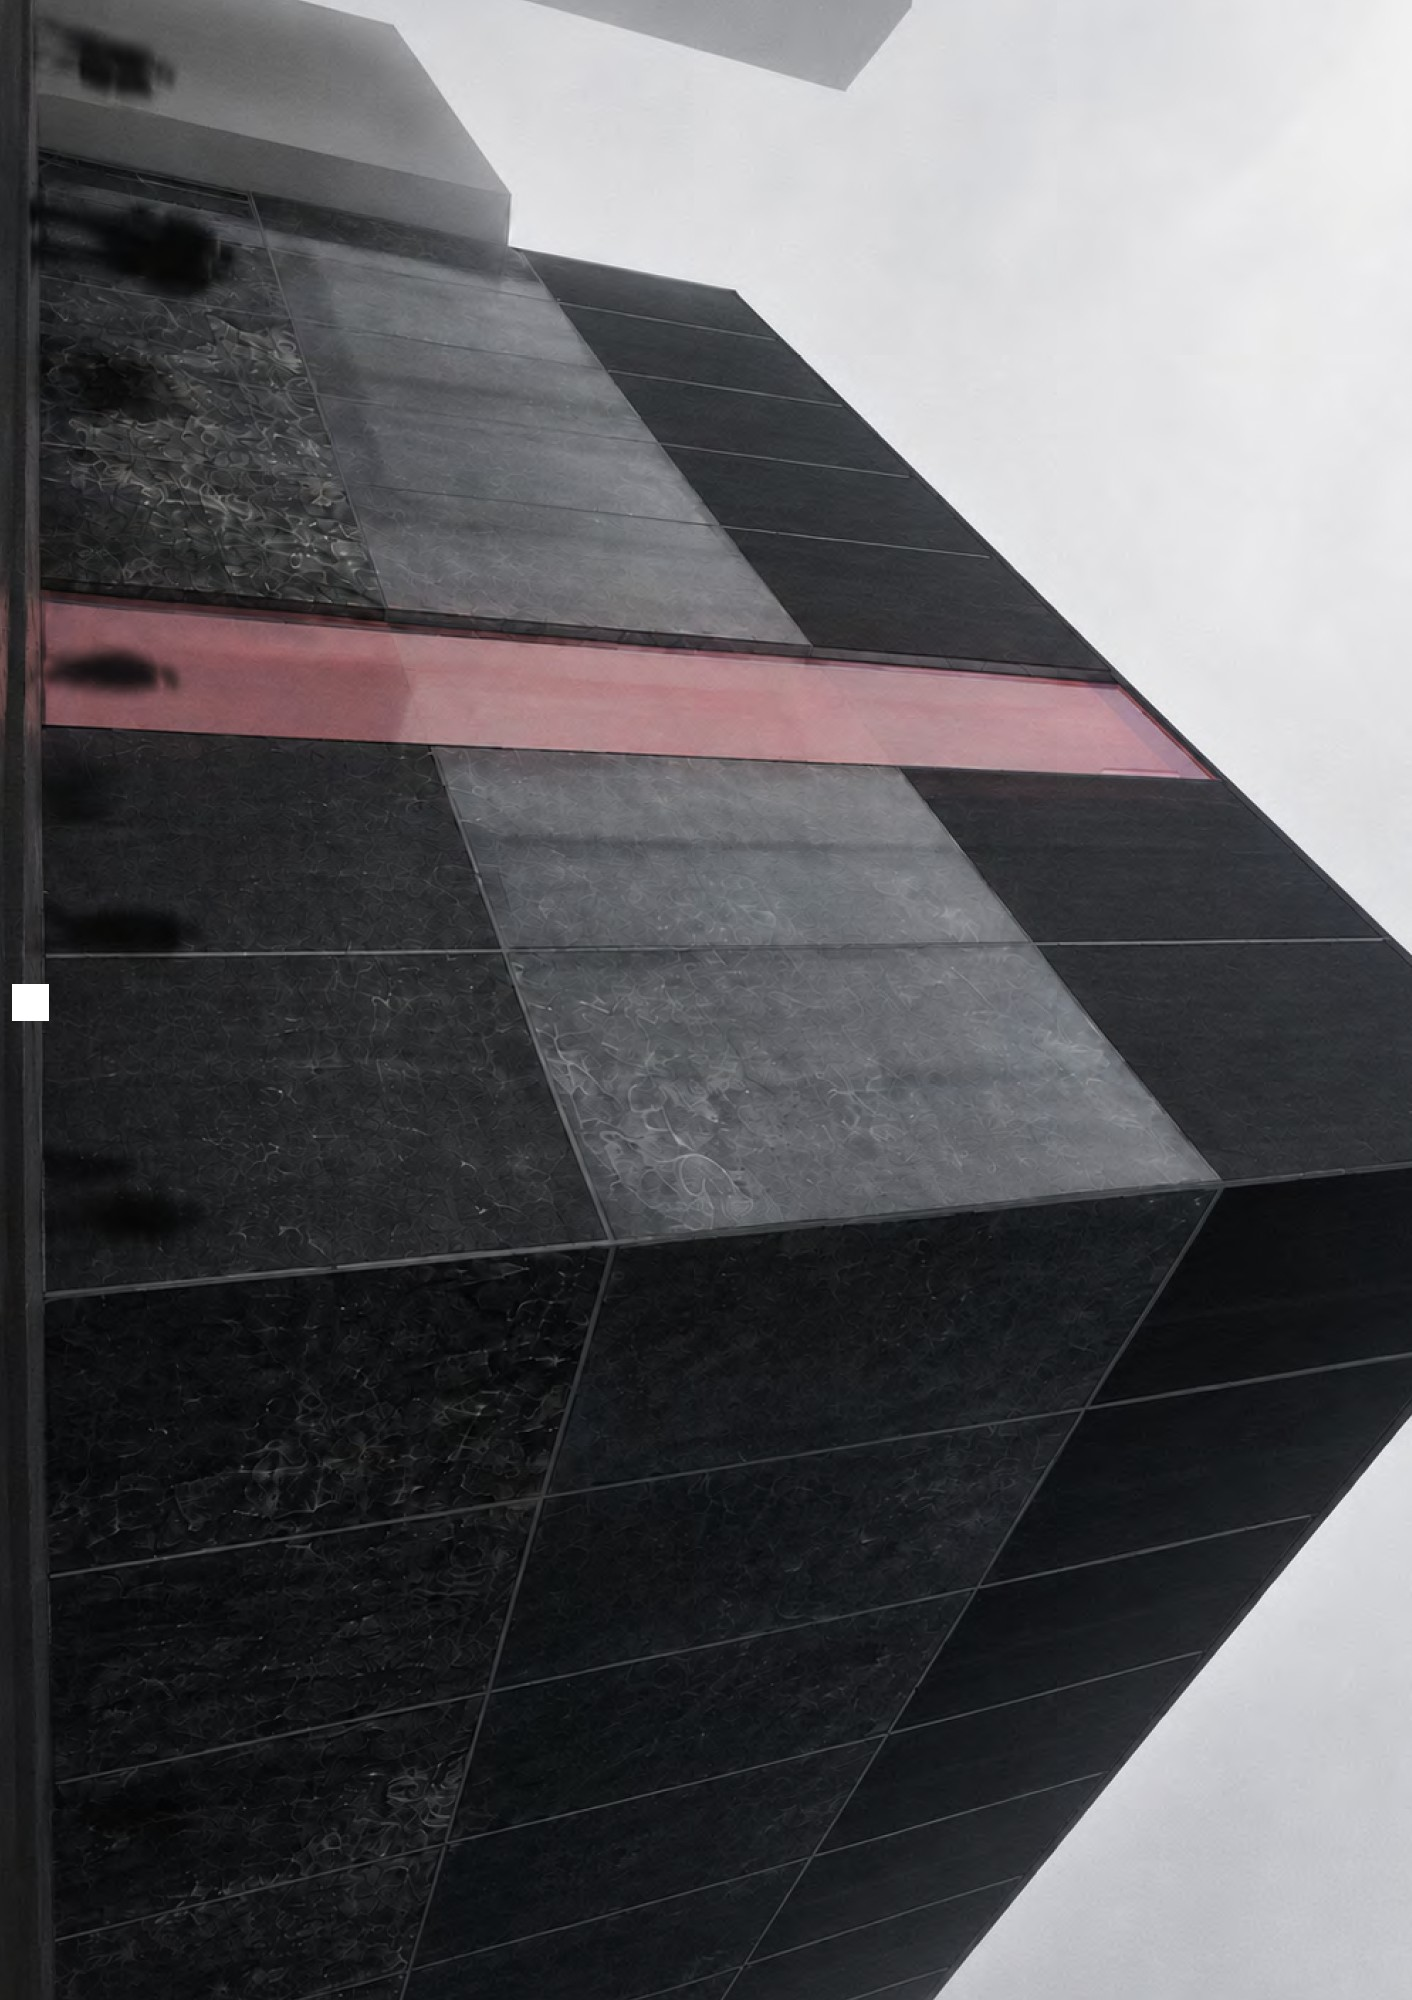
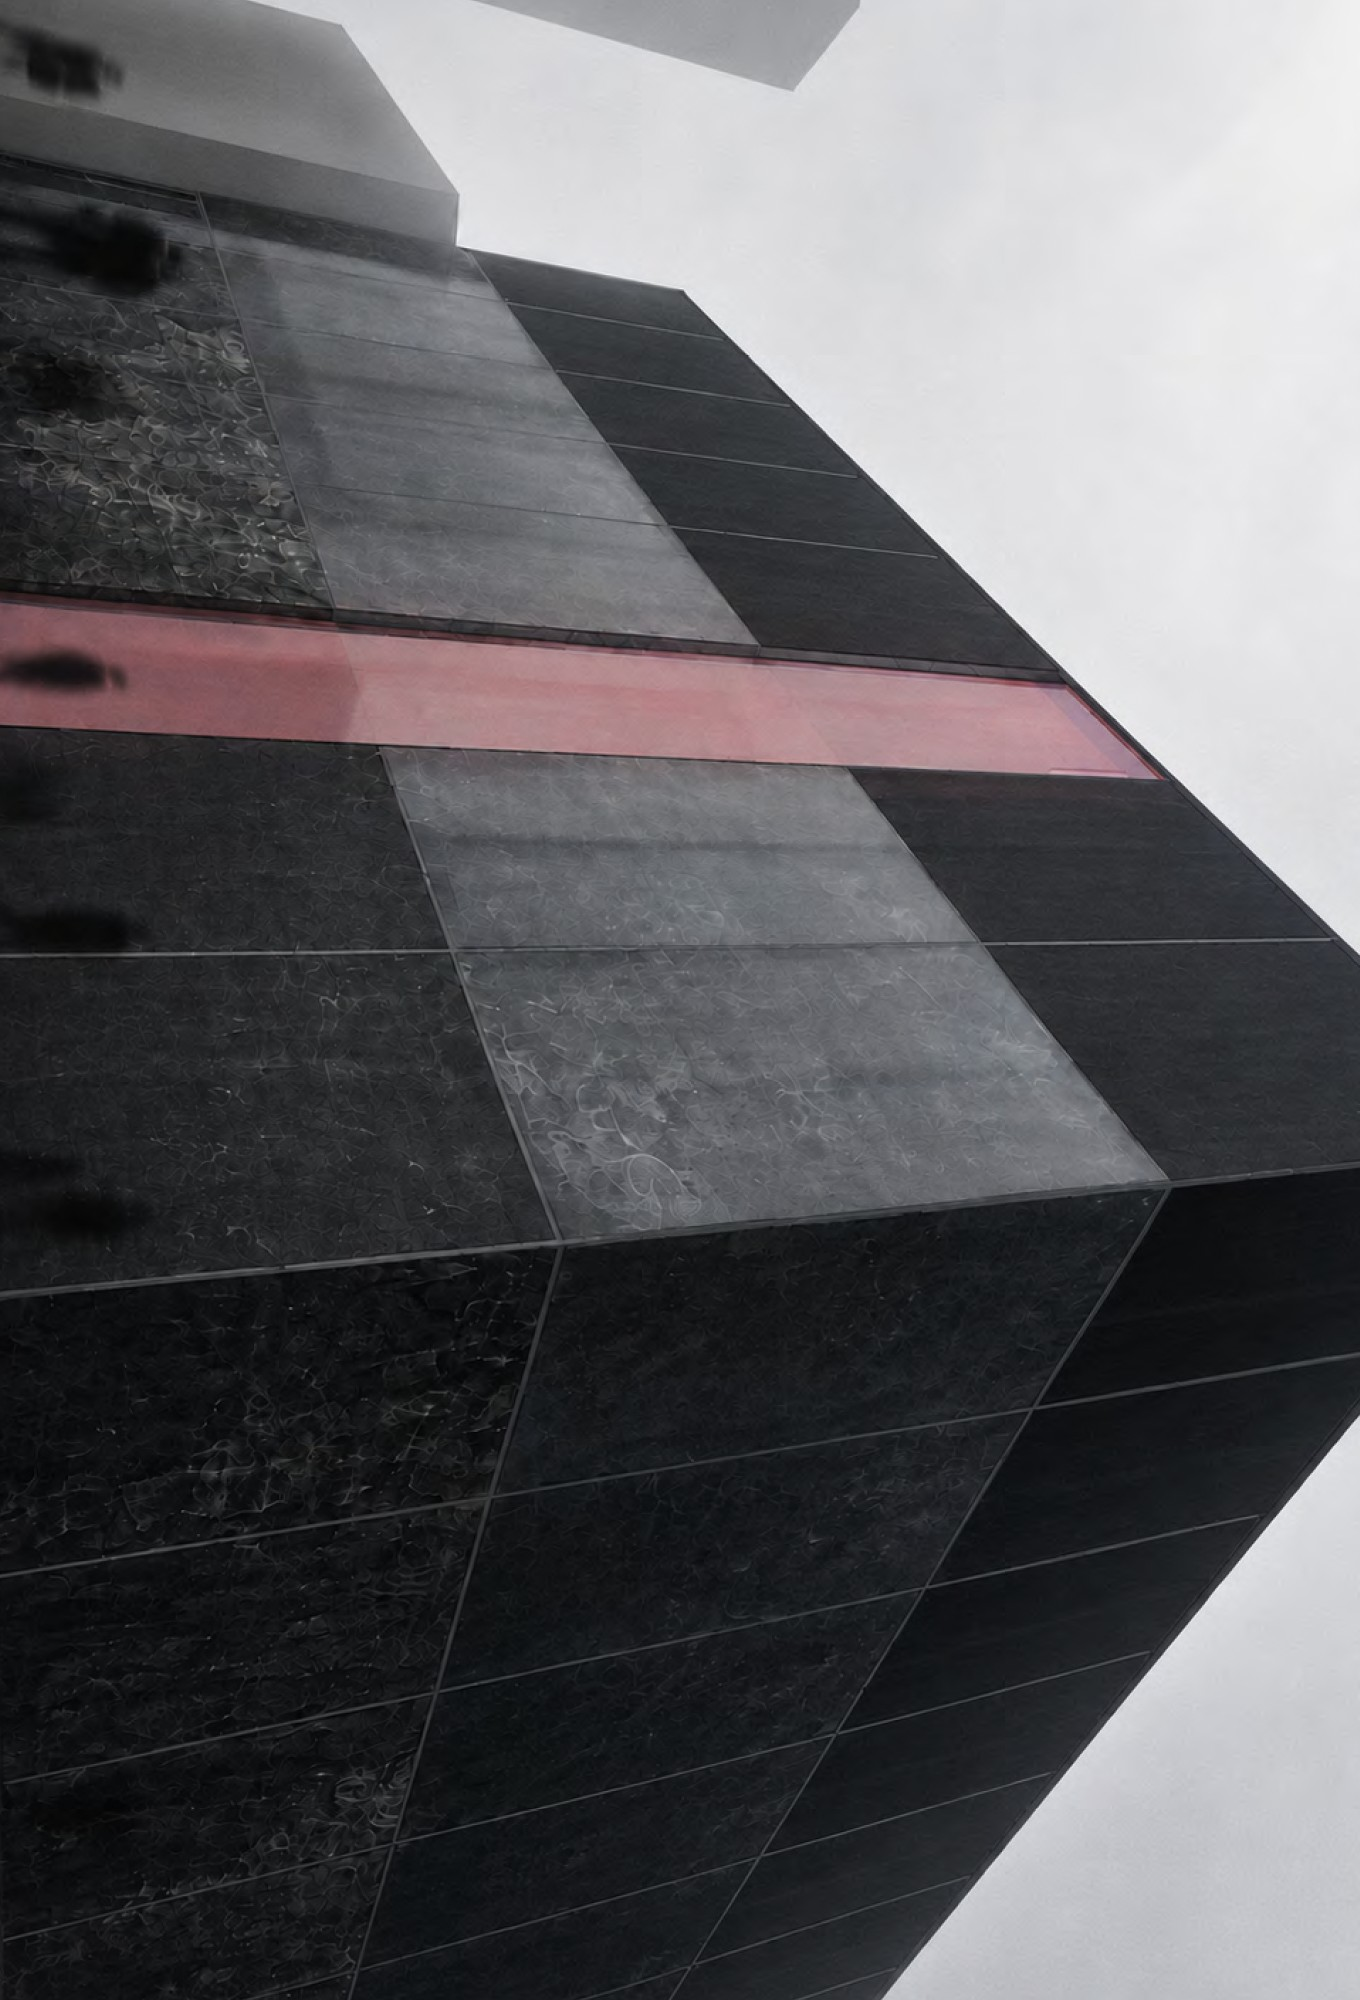
Restore tropic density images, crop blackbox image 4

diff --git a/src/app/pages/ProjectPage.tsx b/src/app/pages/ProjectPage.tsx
@@ -139,7 +139,7 @@ const projectData: Record<string, {
   },
   'tropic-density': {
     title: 'tropic density',
-    images: [tropicNew3, tropicNew4, tropicNew1, tropicNew5, tropicNew6, tropic1, tropic2, tropic3, tropic4, tropic5]
+    images: [tropicNew3, tropicNew4, tropicNew1, tropicNew5, tropicNew6, tropic1, tropic2, tropic3, tropic4, tropic5, tropic6, tropic7, tropic8, tropic9, tropic10]
   },
   'resonance-library': {
     title: 'resonance library',
